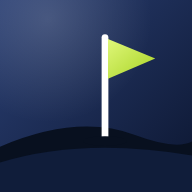
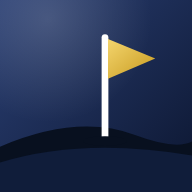
Palette Nuit & Or: drapeau et accents dorés
Claude-Session: https://claude.ai/code/session_01Qzx8yrM29vN8DRb8yi2hPE

Changed region(s): [[0.5625, 0.1875, 0.8125, 0.4062]]

diff --git a/index.html b/index.html
@@ -10,7 +10,7 @@
 <meta name="apple-mobile-web-app-status-bar-style" content="default">
 <meta name="theme-color" content="#f1f3f8">
 <style>
-:root{--bg:#f1f3f8;--card:#ffffff;--fg:#0e1730;--dim:#6a7390;--line:rgba(14,23,48,.09);--gold:#a8d324;--accent:#14213d;--lime:#a8d324;--bad:#c4473f;--good:#2f8a4a;--input:#f5f7fb;
+:root{--bg:#f1f3f8;--card:#ffffff;--fg:#0e1730;--dim:#6a7390;--line:rgba(14,23,48,.09);--gold:#b8921b;--accent:#14213d;--lime:#e0b73a;--bad:#c4473f;--good:#2f8a4a;--input:#f5f7fb;
 --c-Matteo:#b8921b;--c-Xander:#2f8fa6;--c-Sunil:#d0504a;--c-Davon:#5a9a47;color-scheme:light}
 @keyframes up{from{opacity:0;transform:translateY(8px)}to{opacity:1;transform:none}}
 .anim .card,.anim .hero{animation:up .38s cubic-bezier(.2,.7,.2,1) both}
@@ -334,7 +334,7 @@ function notesV(){
 }
 function dataV(){
   return'<div class="card"><h2>Sauvegarde</h2><p style="font-size:13px">Télécharge les données dans un fichier (les vidéos restent sur l\'appareil, elles ne sont pas incluses).</p><button class="pri" data-act="export">Exporter la sauvegarde</button></div>'+
-  '<div class="card"><h2>Importer</h2><p style="font-size:13px">Fichier de sauvegarde de cette application <b>ou</b> de l\'ancien dashboard (compétitions + vitesses). Les données existantes sont conservées, les doublons ignorés.</p><input type="file" id="imp"></div>'+'<div class="card"><h2>Calendriers 2027</h2><p style="font-size:13px">Charge les calendriers prévisionnels 2027 des 4 joueurs dans l\'onglet Calendrier (sans doublon si tu le refais).</p><button class="pri" data-act="loadcal">Charger les calendriers 2027</button></div>'+'<div class="card"><h2>Import par copier-coller</h2><div class="dim" style="font-size:11px;margin-bottom:6px">Version 21</div><p style="font-size:13px">Si le choix de fichier ne marche pas : copie tout le contenu du fichier de données, colle-le ici, puis valide.</p><textarea id="pastebox" placeholder="Colle ici le contenu du fichier…" style="margin-bottom:8px"></textarea><button class="pri" data-act="paste">Importer le texte collé</button></div>'
+  '<div class="card"><h2>Importer</h2><p style="font-size:13px">Fichier de sauvegarde de cette application <b>ou</b> de l\'ancien dashboard (compétitions + vitesses). Les données existantes sont conservées, les doublons ignorés.</p><input type="file" id="imp"></div>'+'<div class="card"><h2>Calendriers 2027</h2><p style="font-size:13px">Charge les calendriers prévisionnels 2027 des 4 joueurs dans l\'onglet Calendrier (sans doublon si tu le refais).</p><button class="pri" data-act="loadcal">Charger les calendriers 2027</button></div>'+'<div class="card"><h2>Import par copier-coller</h2><div class="dim" style="font-size:11px;margin-bottom:6px">Version 22</div><p style="font-size:13px">Si le choix de fichier ne marche pas : copie tout le contenu du fichier de données, colle-le ici, puis valide.</p><textarea id="pastebox" placeholder="Colle ici le contenu du fichier…" style="margin-bottom:8px"></textarea><button class="pri" data-act="paste">Importer le texte collé</button></div>'
 }
 function render(){
   var a=document.activeElement;if(a&&/INPUT|TEXTAREA|SELECT/.test(a.tagName)&&a.closest("form")&&!pending){pending=true;return}

diff --git a/sw.js b/sw.js
@@ -1,4 +1,4 @@
-const V="golfperf-v21",A=["./","index.html","manifest.webmanifest","icon-192.png","icon-512.png","icon-180.png"];
+const V="golfperf-v22",A=["./","index.html","manifest.webmanifest","icon-192.png","icon-512.png","icon-180.png"];
 self.addEventListener("install",e=>{e.waitUntil(caches.open(V).then(c=>c.addAll(A)).then(()=>self.skipWaiting()))});
 self.addEventListener("activate",e=>{e.waitUntil(caches.keys().then(k=>Promise.all(k.filter(x=>x!==V).map(x=>caches.delete(x)))).then(()=>self.clients.claim()))});
 self.addEventListener("fetch",e=>{if(e.request.method!=="GET")return;e.respondWith(fetch(e.request,{cache:"no-cache"}).then(r=>{const c=r.clone();caches.open(V).then(x=>x.put(e.request,c));return r}).catch(()=>caches.match(e.request).then(m=>m||caches.match("index.html"))))});
